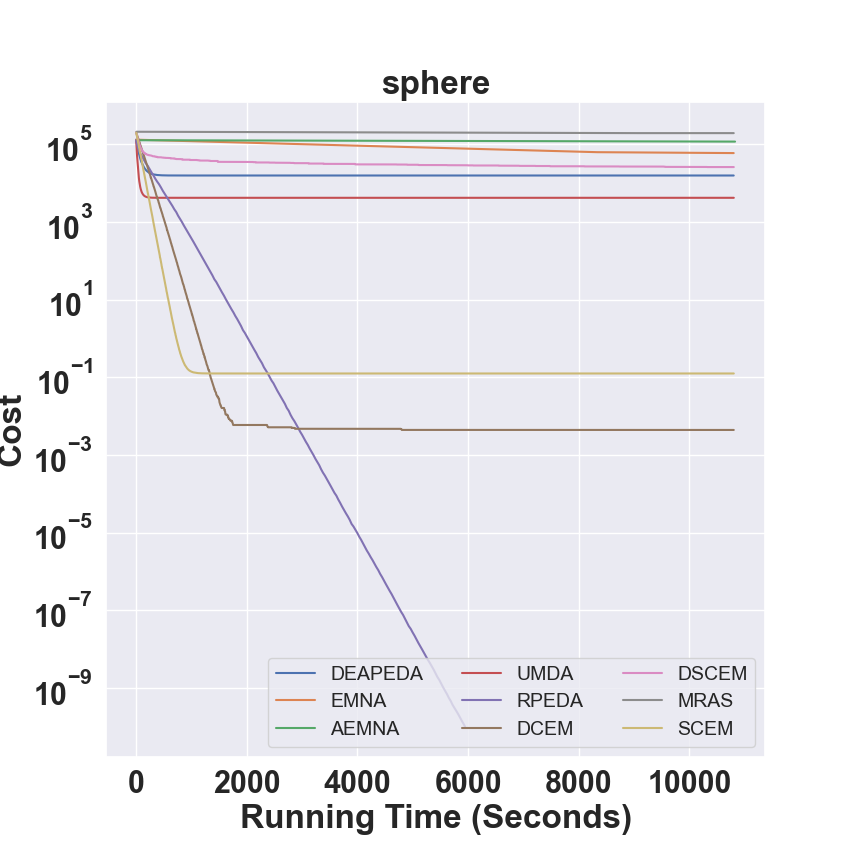
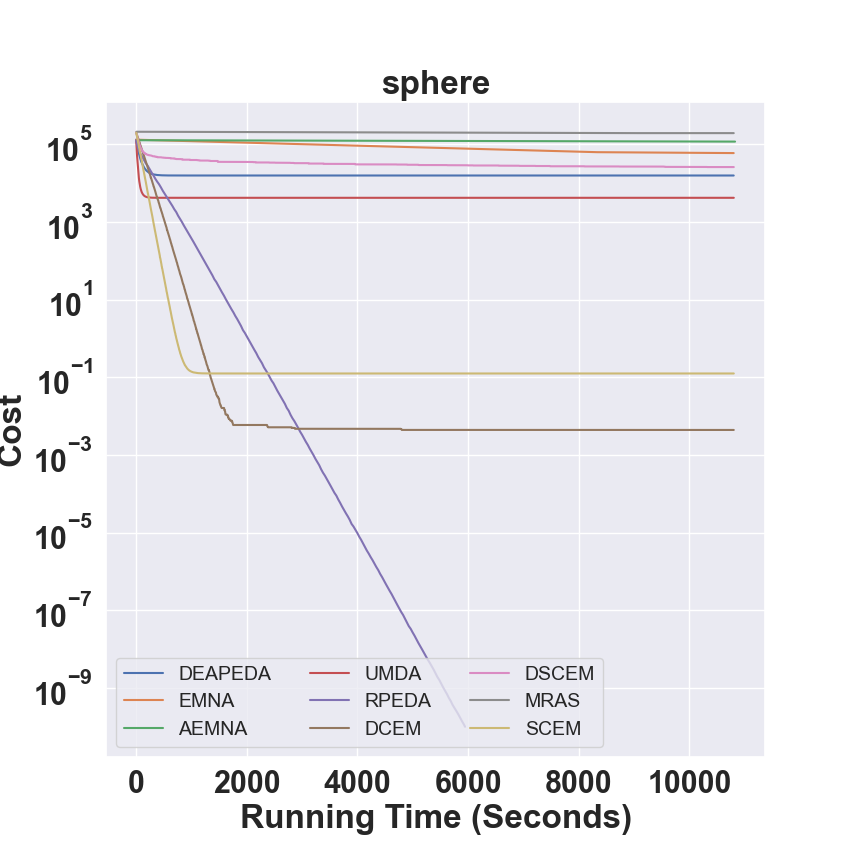
Update docs/pypop7_benchmarks_lso/single-core/compare_efficiency_eda.py and docs/pypop7_benchmarks_lso/single-core/mo_compare_efficiency_eda.py

diff --git a/docs/pypop7_benchmarks_lso/single-core/compare_efficiency_eda.py b/docs/pypop7_benchmarks_lso/single-core/compare_efficiency_eda.py
@@ -69,7 +69,7 @@ if __name__ == '__main__':
         plt.title(f, fontsize=24, fontweight='bold')
         plt.xticks(fontsize=22, fontweight='bold')
         plt.yticks(fontsize=22, fontweight='bold')
-        plt.legend(loc=4, ncol=3, fontsize=14)
+        plt.legend(loc='best', ncol=3, fontsize=14)
         plt.rcParams['font.family'] = 'Times New Roman'
         plt.savefig('./figures/EDAs-' + f + '.png', format='png')
         plt.show()

diff --git a/docs/pypop7_benchmarks_lso/single-core/mo_compare_efficiency_eda.py b/docs/pypop7_benchmarks_lso/single-core/mo_compare_efficiency_eda.py
@@ -71,7 +71,7 @@ if __name__ == '__main__':
         plt.title(f, fontsize=24, fontweight='bold')
         plt.xticks(fontsize=22, fontweight='bold')
         plt.yticks(fontsize=22, fontweight='bold')
-        plt.legend(loc=4, ncol=3, fontsize=14)
+        plt.legend(loc='best', ncol=3, fontsize=14)
         plt.rcParams['font.family'] = 'Times New Roman'
         plt.savefig('./figures/EDAs-' + f + '.png', format='png')
         plt.show()
